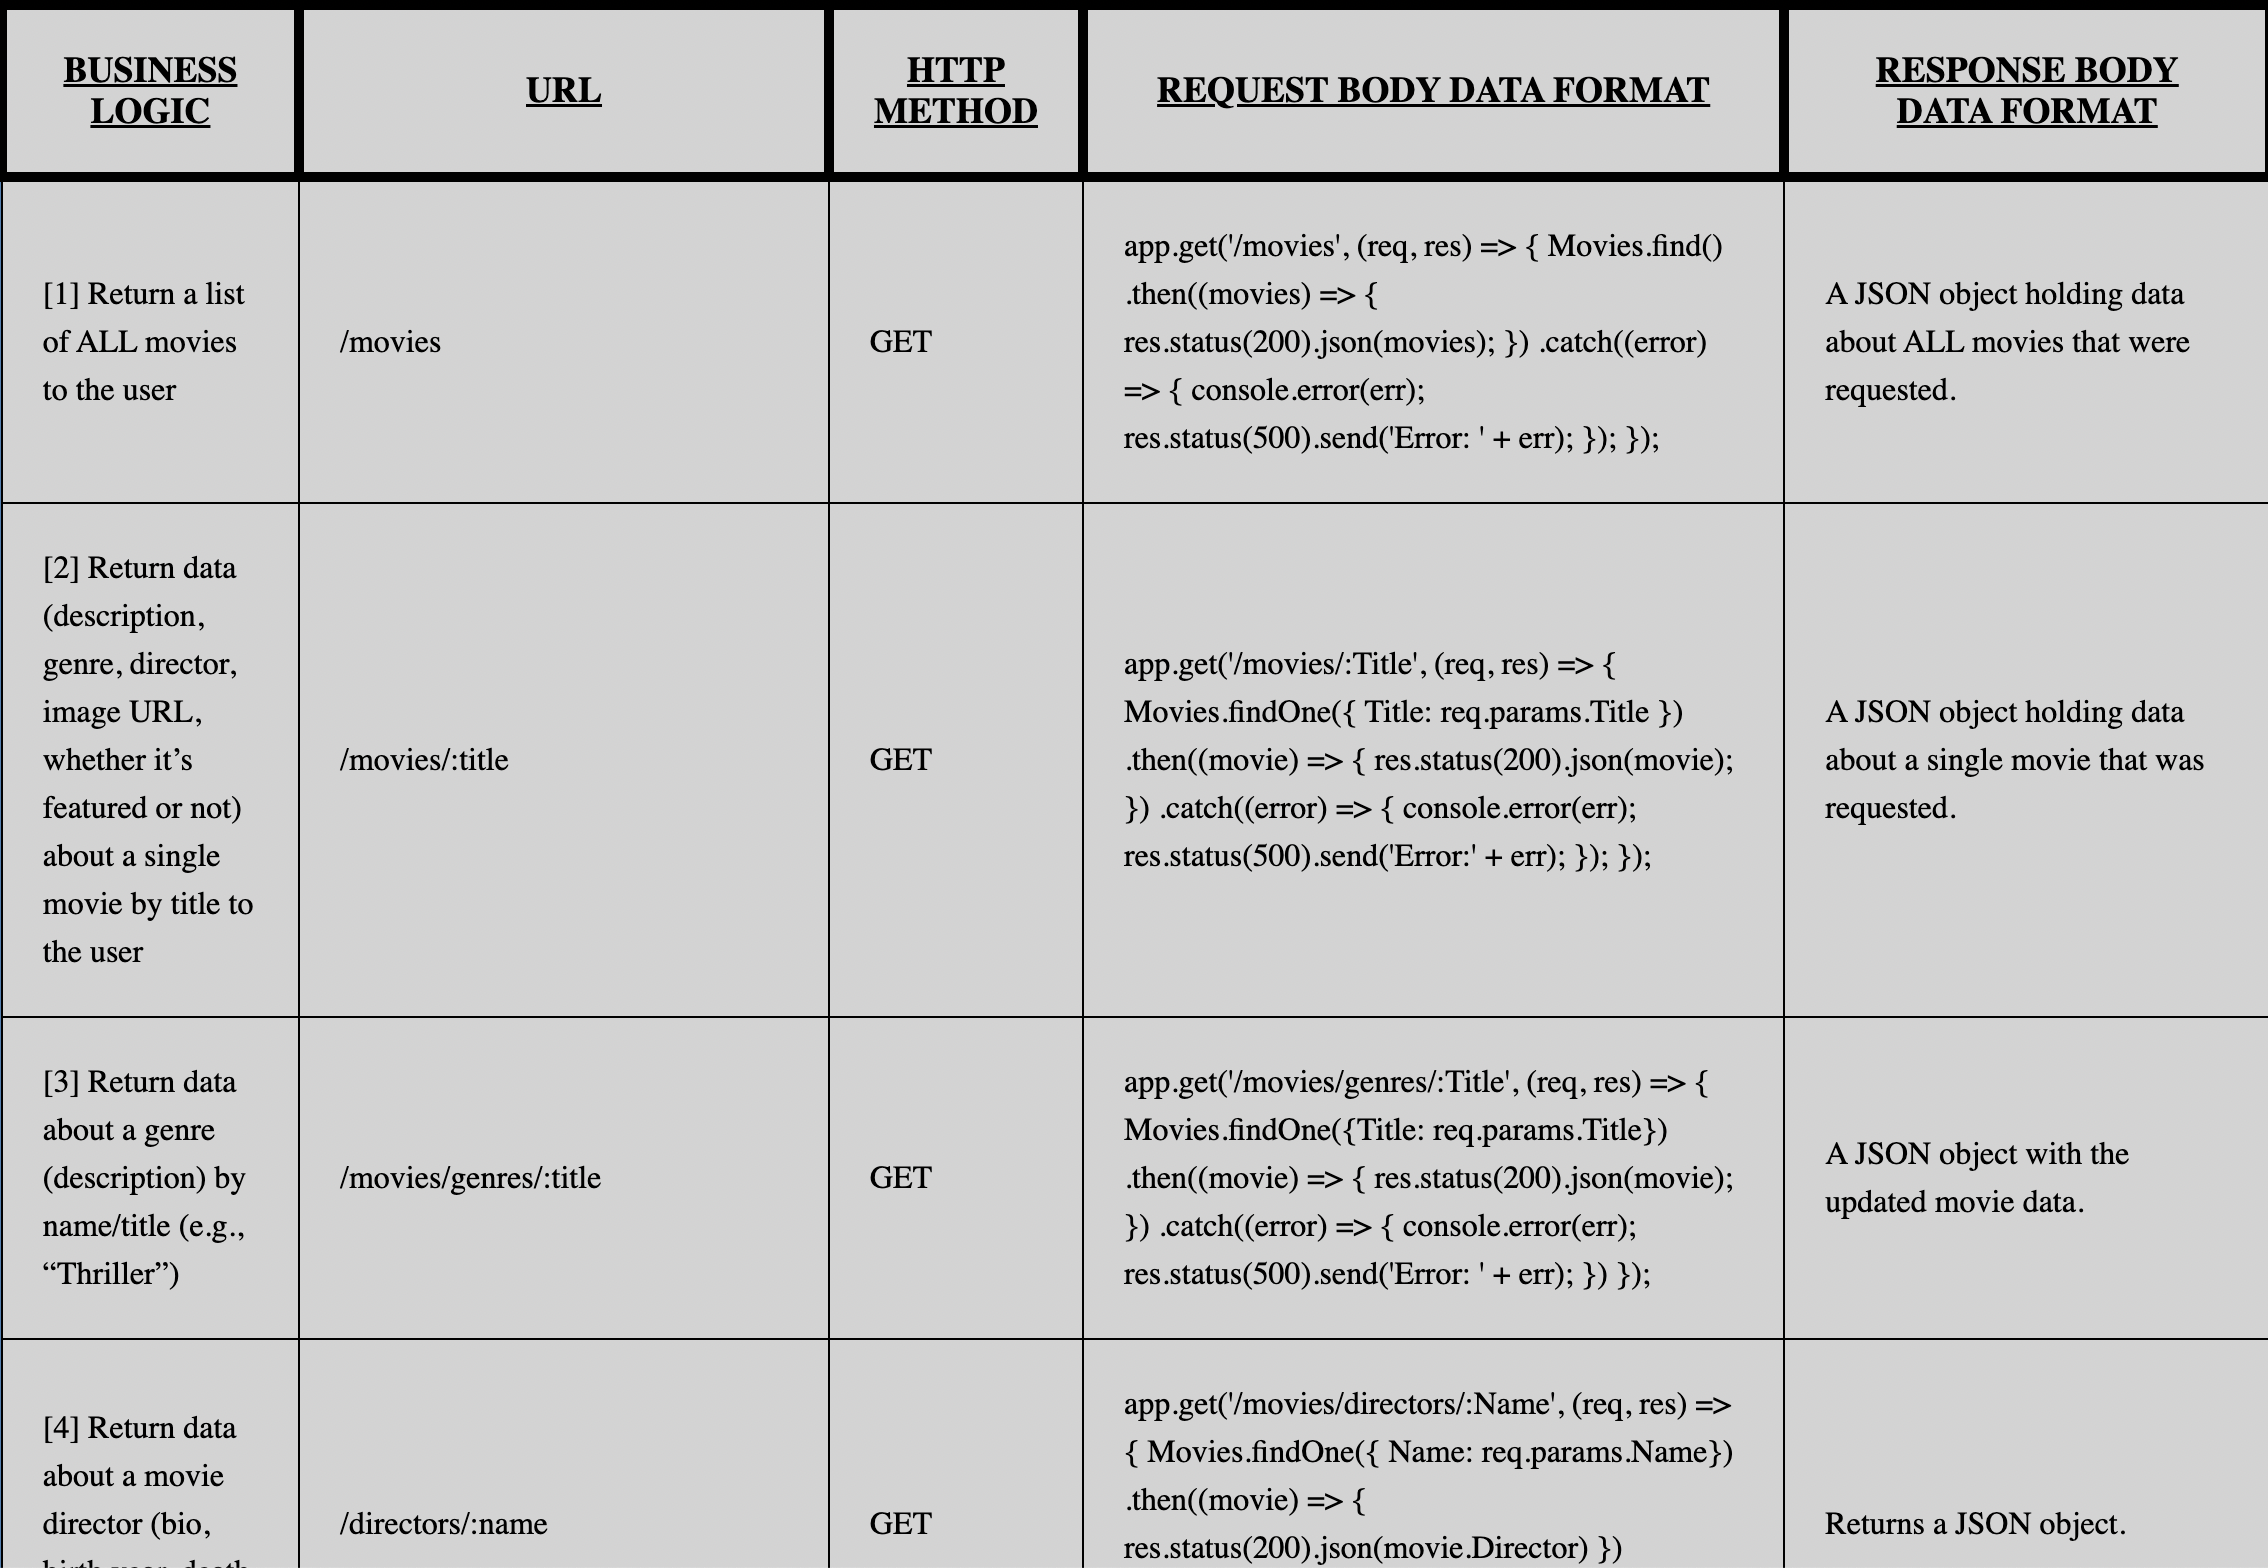
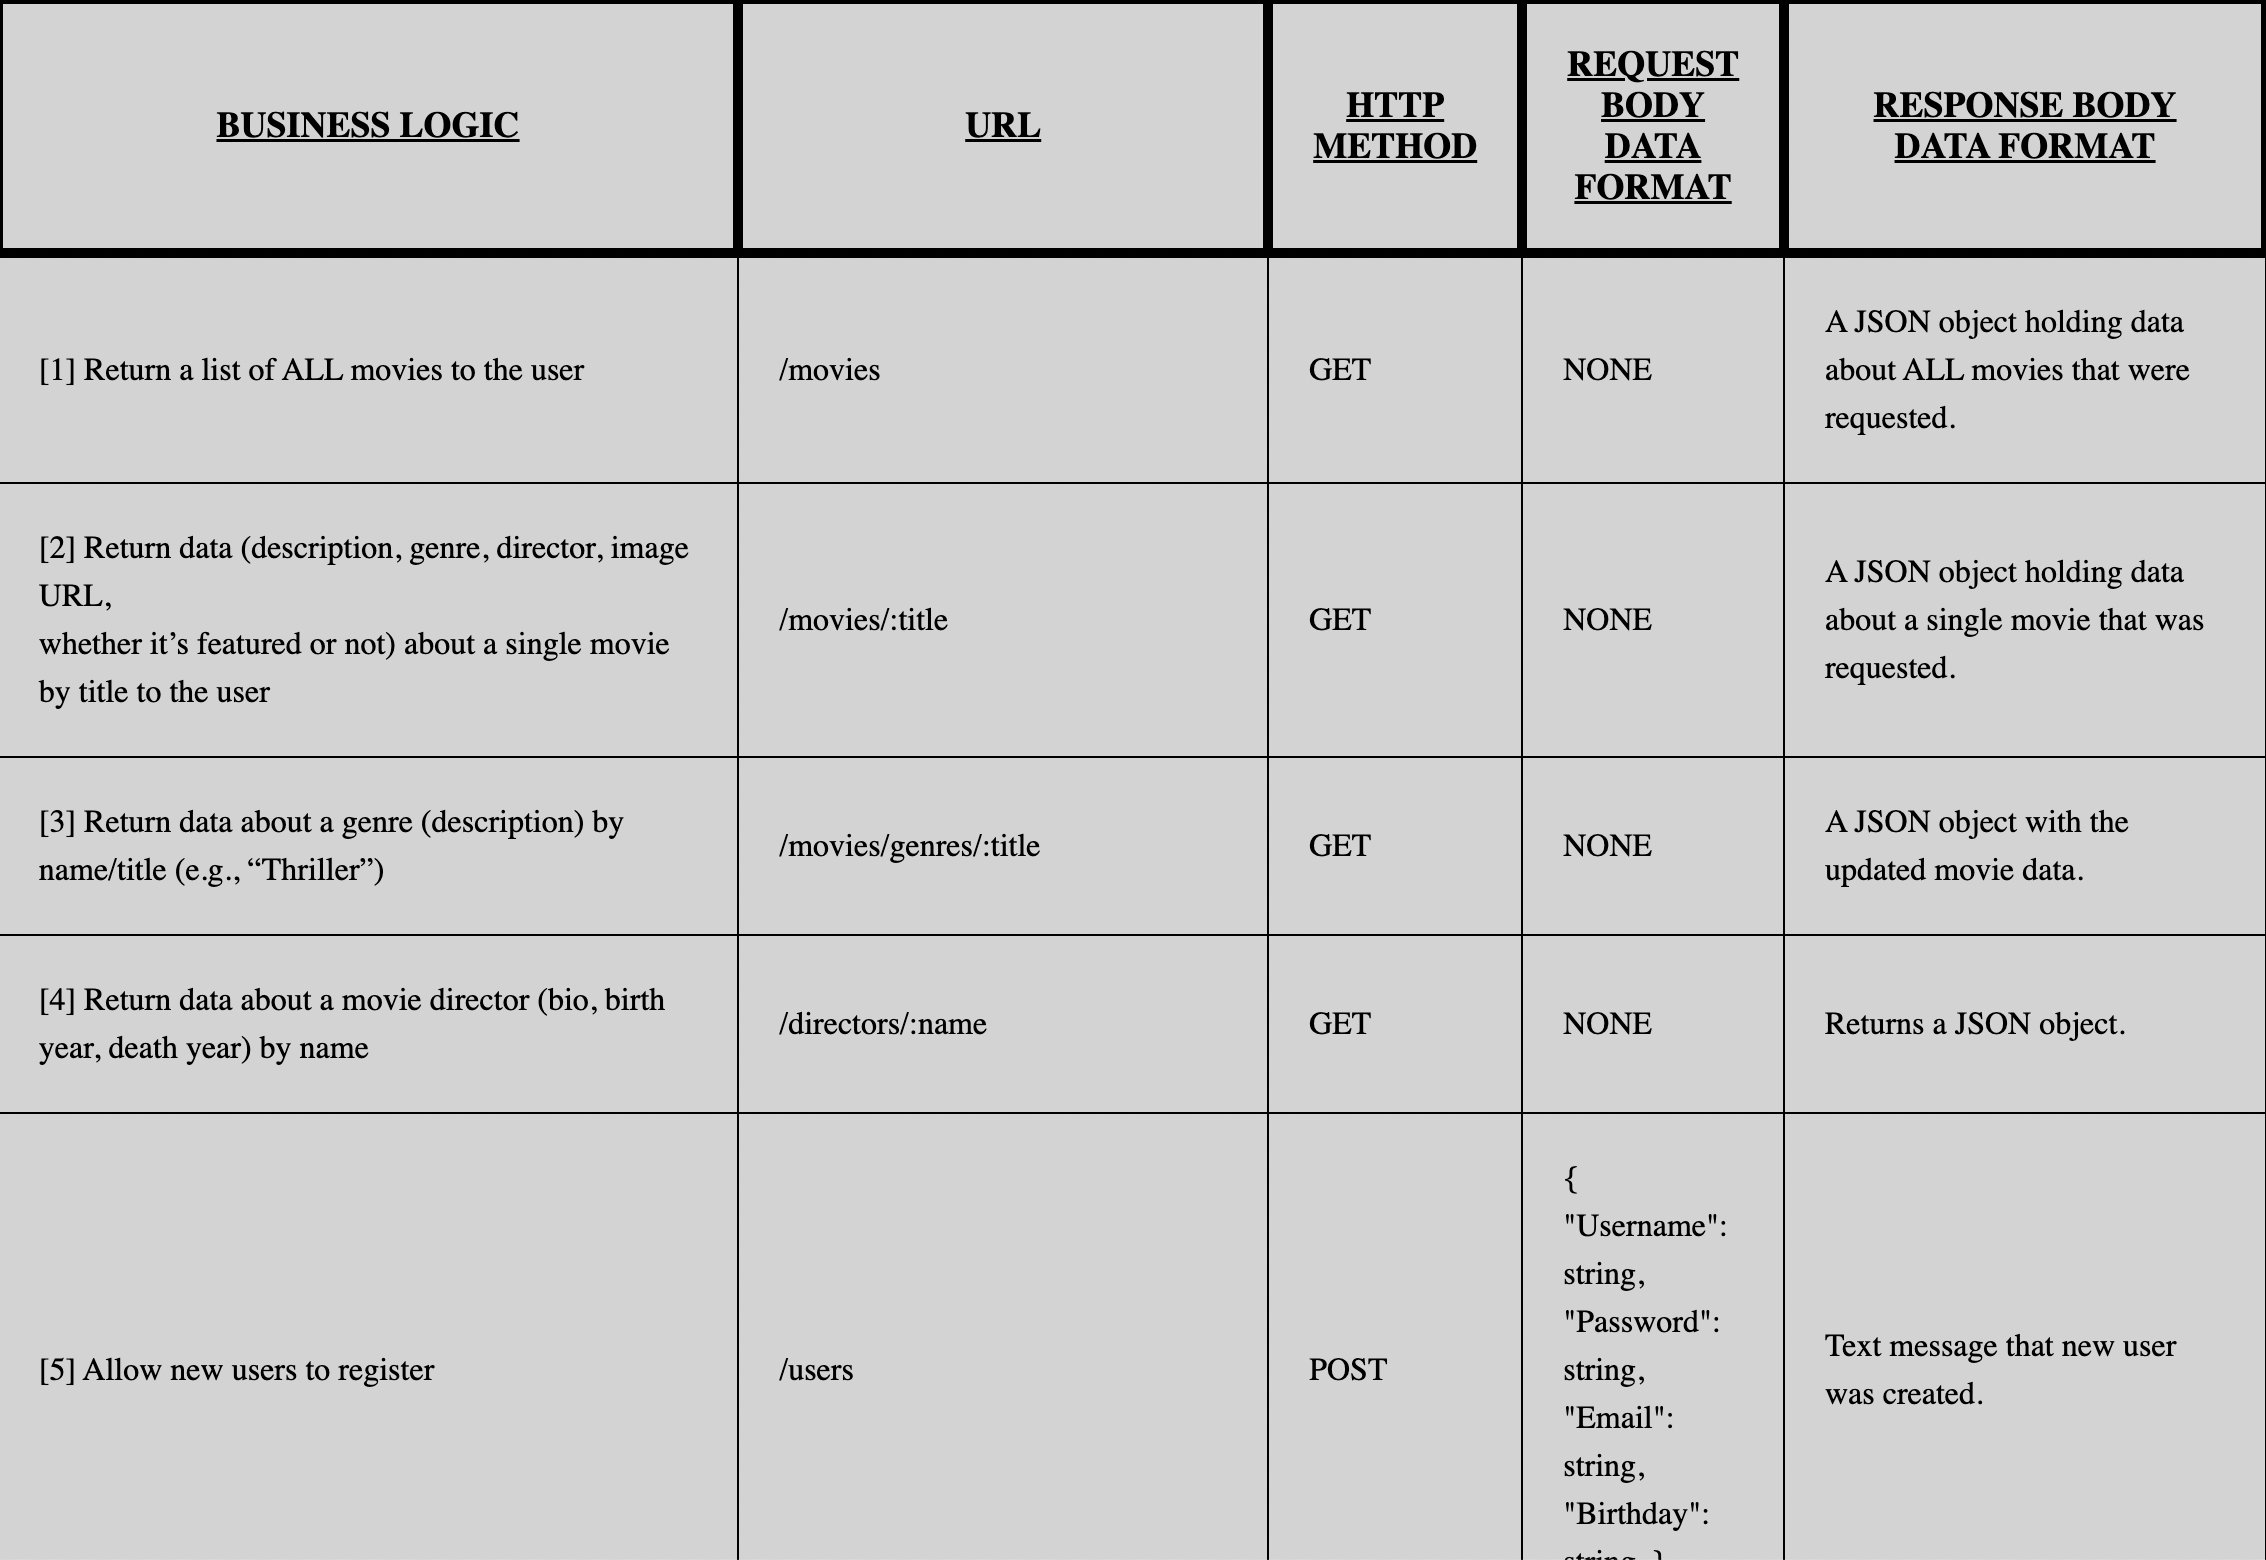
add: updated documentation

diff --git a/public/documentation.html b/public/documentation.html
@@ -148,16 +148,7 @@
       <td>[1] Return a list of ALL movies to the user</td>
       <td>/movies</td>
       <td>GET</td>
-      <td>app.get('/movies', (req, res) => {
-          Movies.find()
-          .then((movies) => {
-            res.status(200).json(movies);
-          })
-          .catch((error) => {
-            console.error(err);
-            res.status(500).send('Error: ' + err);
-          });
-      });</td>
+      <td>NONE</td>
       <td>A JSON object holding data about ALL movies that were requested.</td>
     </tr>
     <tr>
@@ -165,106 +156,41 @@
         it’s featured or not) about a single movie by title to the user</td>
       <td>/movies/:title</td>
       <td>GET</td>
-      <td>app.get('/movies/:Title', (req, res) => {
-        Movies.findOne({ Title: req.params.Title })
-        .then((movie) => {
-          res.status(200).json(movie);
-        })
-        .catch((error) => {
-          console.error(err);
-          res.status(500).send('Error:' + err);
-        });
-      });</td>
+      <td>NONE</td>
       <td>A JSON object holding data about a single movie that was requested.</td>
     </tr>
     <tr>
       <td>[3] Return data about a genre (description) by name/title (e.g., “Thriller”)</td>
       <td>/movies/genres/:title</td>
       <td>GET</td>
-      <td>app.get('/movies/genres/:Title', (req, res) => {
-        Movies.findOne({Title: req.params.Title})
-        .then((movie) => {
-          res.status(200).json(movie);
-        })
-        .catch((error) => {
-          console.error(err);
-          res.status(500).send('Error: ' + err);
-        })
-      });</td>
+      <td>NONE</td>
       <td>A JSON object with the updated movie data.</td>
     </tr>
     <tr>
       <td>[4] Return data about a movie director (bio, birth year, death year) by name</td>
       <td>/directors/:name</td>
       <td>GET</td>
-      <td>app.get('/movies/directors/:Name', (req, res) => {
-          Movies.findOne({ Name: req.params.Name})
-          .then((movie) => {
-            res.status(200).json(movie.Director)
-          })
-          .catch((err) => {
-            console.error(err);
-            res.status(500).send('Error: ' + err);
-          })
-      });</td>
+      <td>NONE</td>
       <td>Returns a JSON object.</td>
     </tr>
     <tr>
       <td>[5] Allow new users to register</td>
       <td>/users</td>
       <td>POST</td>
-      <td>app.post('/users', (req, res) => {
-        Users.findOne({ Username: req.body.Username })
-        .then((user) => {
-          if (user) {
-            return res.status(400).send(req.body.Username + 'already exists');
-          } else {
-            Users
-            .create({
-              Username: req.body.Username,
-              Password: req.body.Password,
-              Email: req.body.Email,
-              Birthday: req.body.Birthday
-            })
-            .then((user) => {res.status(201).json(user ) })
-            .catch((err) => {
-              console.log(err);
-              res.status(500).send('Error:' + err);
-            })
-          }
-        })
-        .catch((err) => {
-            console.error(err);
-            res.status(500).send('Error:' + err);
-        });
-      });
-</td>
+      <td>{
+        "Username": string,
+        "Password": string,
+        "Email": string,
+        "Birthday": string,
+      }
+      </td>
       <td>Text message that new user was created.</td>
     </tr>
     <tr>
       <td>[6] Allow users to update their user info (username)</td>
       <td>/users/:username</td>
       <td>PUT</td>
-      <td>app.put('/users/:Username', (req, res) => {
-        Users.findOneAndUpdate({Username: req.params.Username},
-        { $set:
-          {
-            Username: req.params.Username,
-            Password: req.params. Password,
-            Email: req.params.Email,
-            Birthday: req.params.Birthday
-        }
-      },
-      { new: true }, // This line makes sure that the updated document is returned
-      (err, updatedUser) => {
-        if (err) {
-          console.log(err);
-          res.status(500).send('Error:' + err);
-        } else {
-          res.status(201).json(updatedUser);
-        }
-      });
-      });</td>
+      <td>NONE</td>
       <td>{
     "_id": "639f594a298efe834b238de5",
     "Username": "mikelee111",
@@ -280,50 +206,14 @@
       <td>[7] Allow users to add a movie to their list of favorites (showing only a text that a movie has been added—more on this later)</td>
       <td>/users/:username/movies/:movieID</td>
       <td>POST</td>
-      <td>app.post('/users/:Username/movies/:MovieID', (req, res) => {
-        Users.findOneAndUpdate({ Username: req.params.Username }, {
-           $push: { FavoriteMovies: req.params.MovieID }
-         },
-         { new: true }, // This line makes sure that the updated document is returned
-        (err, updatedUser) => {
-          if (err) {
-            console.error(err);
-            res.status(500).send('Error: ' + err);
-          } else {
-            res.json(updatedUser);
-          }
-        });
-      });</td>
-      <td>Delivers an updated JSON object of user favorites. Example: {
-    "_id": "63a84801d01545b891f6e3df",
-    "Username": "Monday_Kiz",
-    "Password": "monday123",
-    "Email": "monday@monday.de",
-    "FavoriteMovies": [
-        "639f5650298efe834b238de3"
-    ],
-    "__v": 0
-}</td>
+      <td>NONE</td>
+      <td>Returns a JSON object.</td>
     </tr>
     <tr>
       <td>[8] Allow users to remove a movie from their list of favorites (showing only a text that a movie has been removed—more on this later)</td>
       <td>/users/:username/movies/:movieID</td>
       <td>DELETE</td>
-      <td>app.delete('/users/:Username/movies/:MovieID', (req, res) => {
-        Users.findOneAndUpdate({ Username: req.params.Username }, {
-           $pull: { FavoriteMovies: req.params.MovieID }
-         },
-         { new: true }, // This line makes sure that the updated document is returned
-        (err, updatedUser) => {
-          if (err) {
-            console.error(err);
-            res.status(500).send('Error: ' + err);
-          } else {
-            res.json(updatedUser);
-          }
-        });
-      });
-</td>
+      <td>NONE</td>
       <td>{
     "_id": "639f594a298efe834b238de5",
     "Username": "mikelee111",
@@ -339,20 +229,7 @@
       <td>[9] Allow existing users to deregister (showing only a text that a user email has been removed—more on this later)</td>
       <td>/users/:username</td>
       <td>DELETE</td>
-      <td>app.delete('/users/:Username', (req, res) => {
-        Users.findOneAndRemove({ Username: req.params.Username })
-          .then((user) => {
-            if (!user) {
-              res.status(400).send(req.params.Username + ' was not found');
-            } else {
-              res.status(200).send(req.params.Username + ' was deleted.');
-            }
-          })
-          .catch((err) => {
-            console.error(err);
-            res.status(500).send('Error: ' + err);
-          });
-      });</td>
+      <td>NONE</td>
       <td>Text message that the user was deleted. Example: Monday_Kiss_Kiss was deleted.</td>
     </tr>
   </tbody>
